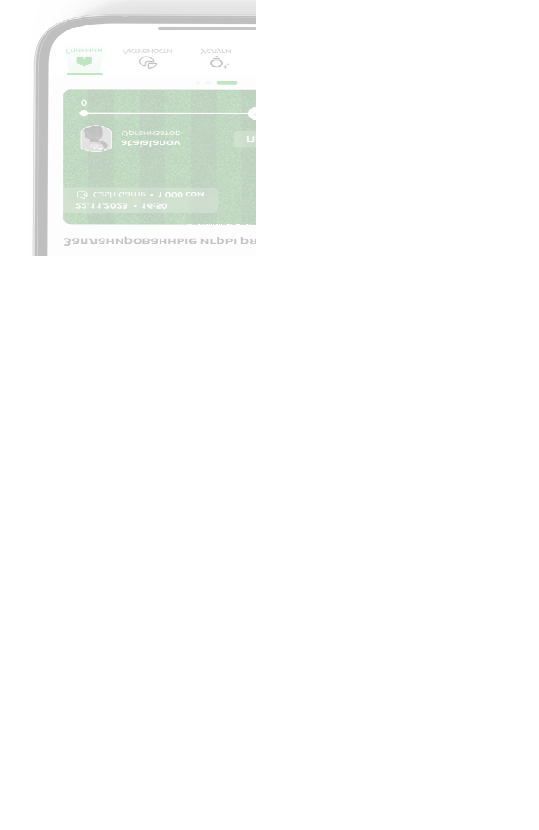
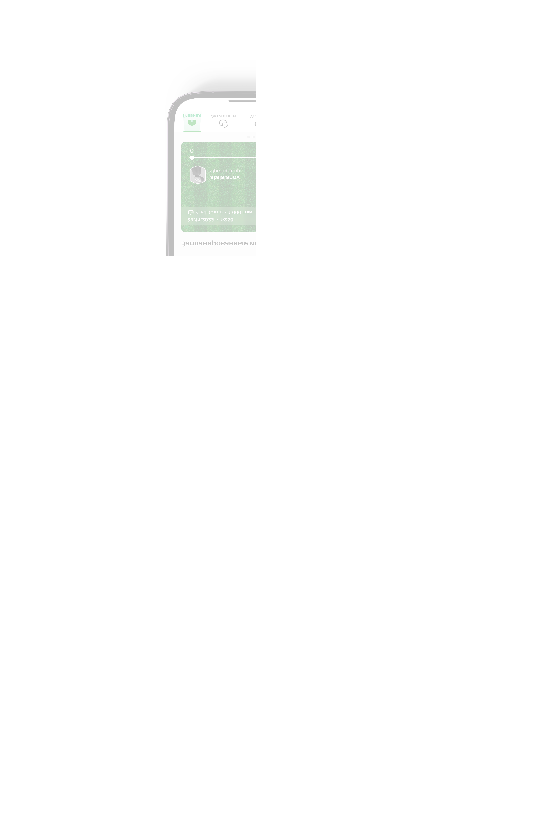
fix

Changed region(s): [[0.0594, 0.0, 0.475, 0.3313]]

diff --git a/components/Section/Section.tsx b/components/Section/Section.tsx
@@ -10,11 +10,10 @@ const Section = () => {
             <h1>ДОБРО ПОЖАЛОВАТЬ </h1>
             <div className={styles.topLogoflex}>
               <Image
-                src="/1.png"
+                src="/Rectangle.svg"
                 alt="Логотип футбольного приложения ТОП"
                 width={160}
                 height={67}
-                quality={100}
                 className={styles.topPhone}
                 priority={true}
               />
@@ -118,7 +117,8 @@ const Section = () => {
               width={539}
               height={830}
               className={styles.phoneImage2}
-              priority={true}
+              quality={100}
+              loading="lazy"
             />
             <Image
               className={styles.topFootball}
